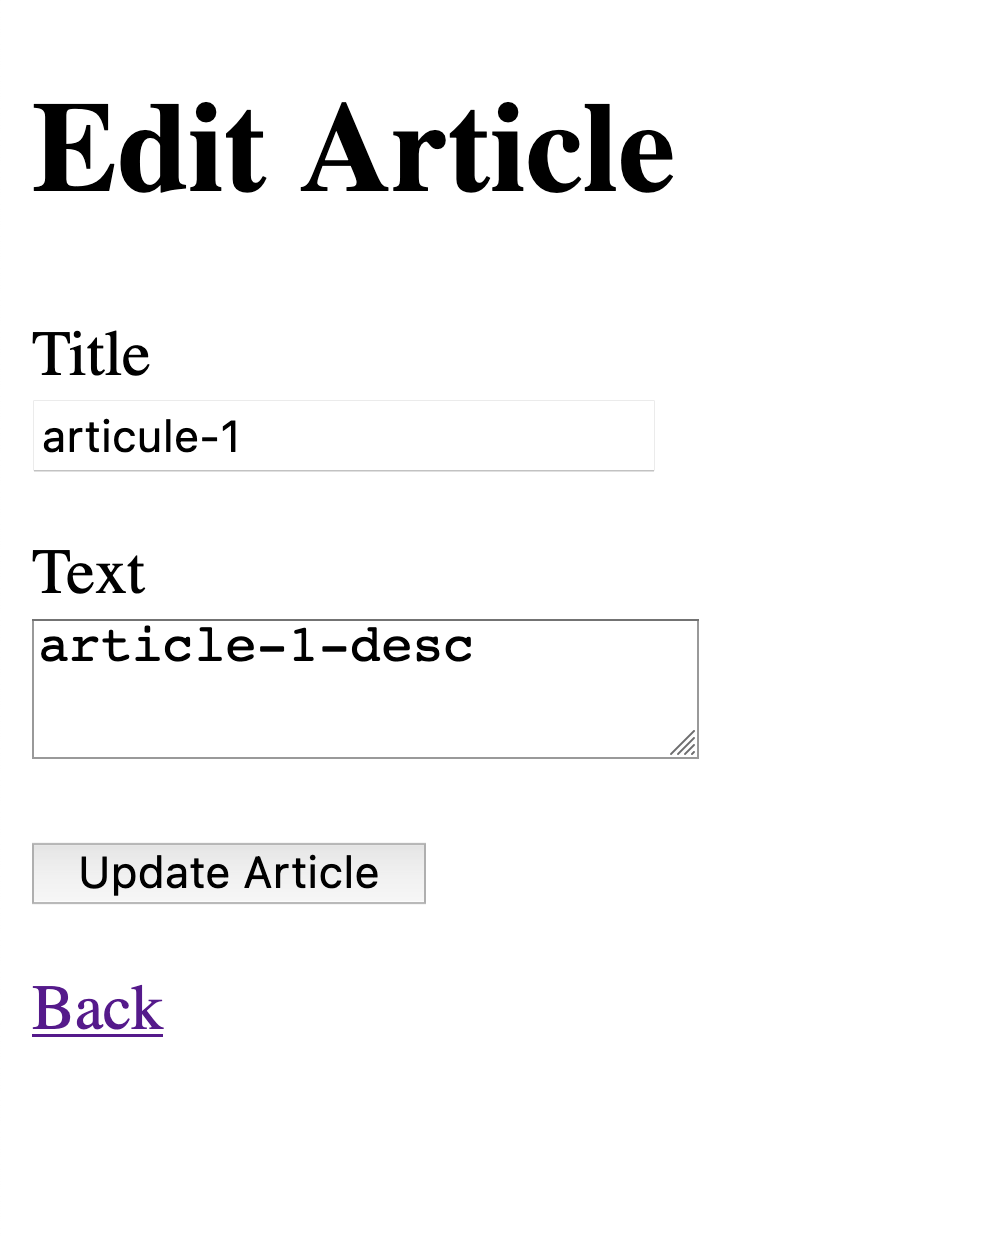
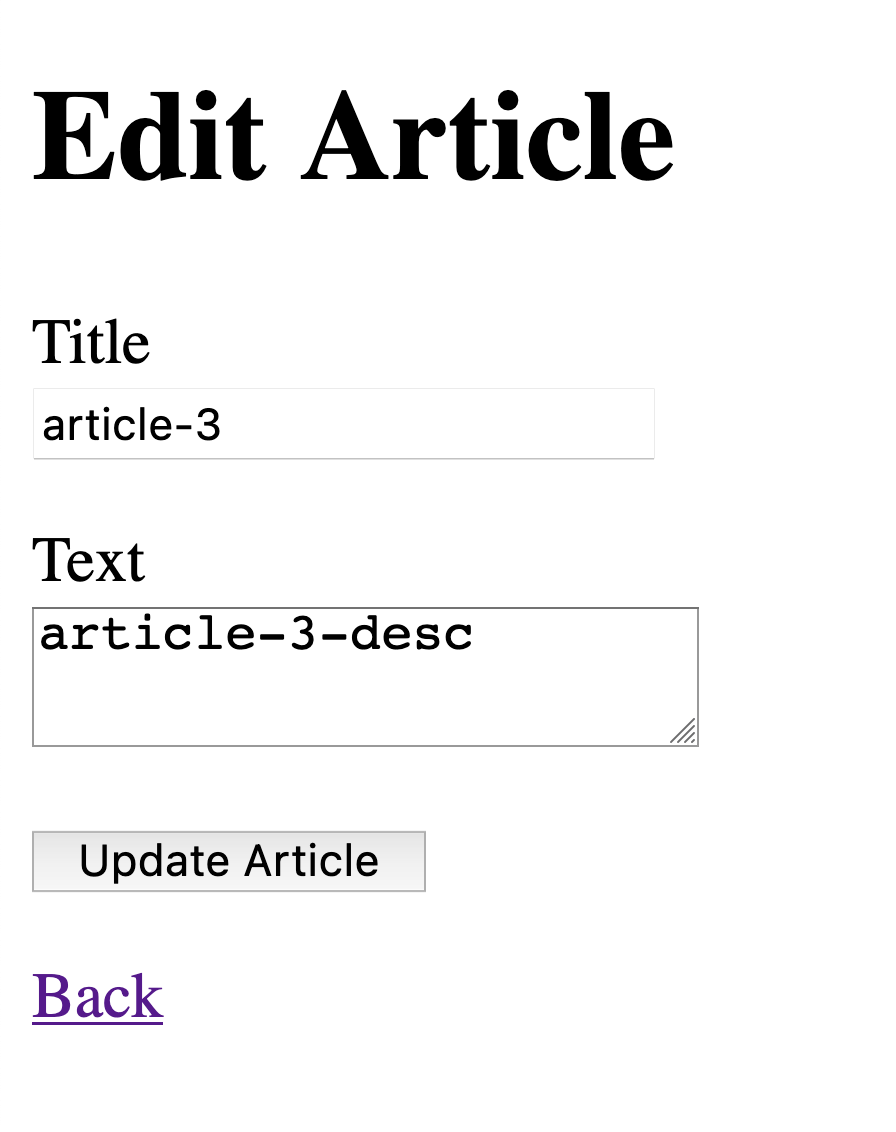
Update README

diff --git a/README.md b/README.md
@@ -1,24 +1,43 @@
 # README
 
-This README would normally document whatever steps are necessary to get the
-application up and running.
+This App is based on Getting Started with Rails Guide (https://guides.rubyonrails.org/getting_started.html).
 
-Things you may want to cover:
+## Installation
 
-* Ruby version
+After clone it, just run the local server:
 
-* System dependencies
+` $ rails server `
 
-* Configuration
+After that, open browser on http://localhost:3000/
 
-* Database creation
+## Features
 
-* Database initialization
+- Welcome page:
+<table><tr><td>
+  <img src="images/welcome-page.png" width="400" height="300" />
+</td></tr></table>
 
-* How to run the test suite
+- List items:
+<table><tr><td>
+  <img src="images/list-articles.png" width="400" height="300" />
+</td></tr></table>
 
-* Services (job queues, cache servers, search engines, etc.)
+- Create an item:
+<table><tr><td>
+  <img src="images/create-article.png" width="400" height="400" />
+</td></tr></table>
 
-* Deployment instructions
+- View an item:
+<table><tr><td>
+  <img src="images/view-article.png" width="400" height="300" />
+</td></tr></table>
 
-* ...
+- Edit an item:
+<table><tr><td>
+  <img src="images/edit-article.png" width="400" height="400" />
+</td></tr></table>
+
+- Delete an item:
+<table><tr><td>
+  <img src="images/delete-article.png" width="600" height="300" />
+</td></tr></table>
